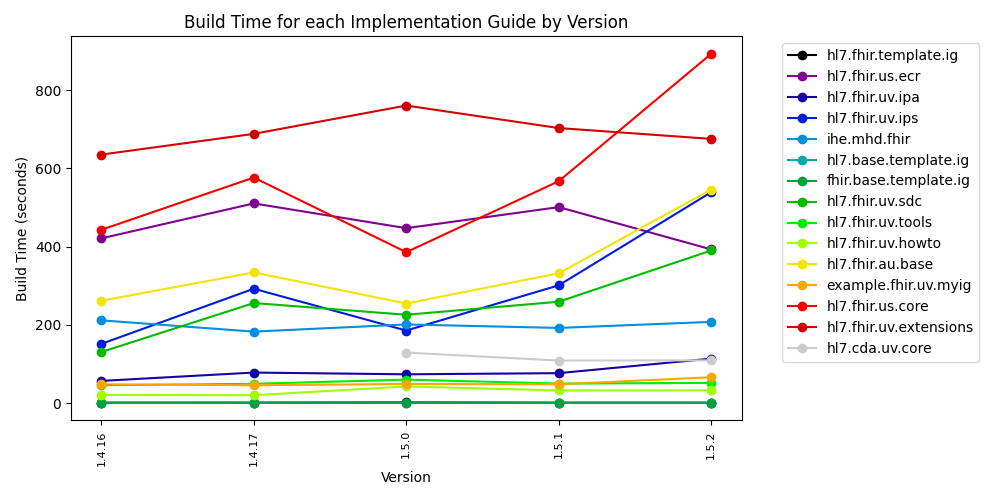
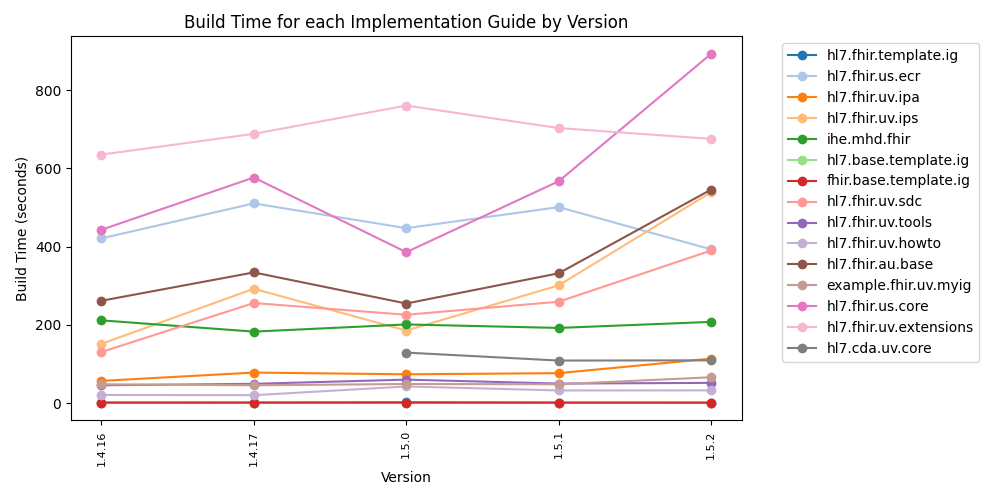
Add variant dynamic script with new color choices

diff --git a/scripts/plot-ig-builder-auto-dynamic-2.py b/scripts/plot-ig-builder-auto-dynamic-2.py
@@ -1,0 +1,166 @@
+# Description:
+# This script reads the output log of the IG Publisher release build process (either from the filesystem or the URL)
+# It parses the time info, converts the millisecond values to seconds (for visualization purposes),
+# and then plots the results for each tested IG.
+#
+# Usage:
+# Run it from the command line, providing the path or URL as an argument.
+# If no argument is passed, it defaults to the github test-statistics URL
+#
+# For example:
+#   python script.py path/to/yourfile.json
+# or
+#  python script.py https://raw.githubusercontent.com/HL7/fhir-ig-publisher/master/test-statistics.json
+#
+# Output:
+# The plotted graph is stored as a png in a subdirectory:
+# ../data/publisher-build-time-trends/{latest-version}.png
+
+import argparse
+import json
+import matplotlib.pyplot as plt
+import requests
+import sys
+import os
+import numpy as np
+
+
+# Function to parse and sort version numbers
+def parse_version(version):
+    # Split version into major, minor, and patch, and convert them to integers
+    try:
+        # Original code is now in the 'try' block, indented.
+        major, minor, patch = map(int, version.split('.'))
+        return major, minor, patch
+    except ValueError:  # Handling non-integer splits
+        return (0, 0, 0)  # Default value for non-version strings
+
+def load_json_data(source):
+    if source.startswith('http://') or source.startswith('https://'):
+        # Fetch the JSON data from a URL
+        response = requests.get(source)
+        response.raise_for_status()  # Raise an exception if the request failed
+        data = response.json()
+    else:
+        # Load the JSON data from a local file
+        with open(source, 'r') as file:
+            data = json.load(file)
+    return data
+
+def main(source):
+    data = load_json_data(source)
+
+    # Prepare data for visualization
+    build_times = {}  # Structure to hold the build times
+
+    # Extracting the keys, which represent version numbers
+    version_keys = list(data.keys())
+    version_keys = [key for key in version_keys if key[0].isdigit()]
+
+    # Sorting the version numbers
+    sorted_versions = sorted(version_keys, key=parse_version)
+
+    # The latest version is the last one in the sorted list
+    latest_version = sorted_versions[-1]
+
+    # Construct the filename using the version number
+    filename = f"{latest_version}.png"
+
+    # Process the JSON data
+    for version, guides in data.items():
+        if version == 'format-version':
+            continue  # Skip the 'format-version' entry
+
+        for guide, stats in guides.items():
+            if guide in ['sync-date', 'date']:
+                continue  # Skip non-guide entries
+
+            guide_name = guide
+            time = stats.get('time', 0) / 1000.0  # Convert milliseconds to seconds
+
+            if guide_name not in build_times:
+                build_times[guide_name] = {}
+            build_times[guide_name][version] = time
+
+    # Determine the number of unique guides to plot
+    num_guides = len(build_times)
+
+    # Define the colormaps
+    cmap1 = plt.get_cmap('tab20', 20)
+    cmap2 = plt.get_cmap('tab20b', 20)
+    cmap3 = plt.get_cmap('tab20c', 20)
+
+    # Initialize an empty list to store the colors
+    combined_colors = []
+
+    # Function to add colors to the list from a given colormap
+    def add_colors_from_cmap(cmap, num_colors, color_list):
+        for i in range(num_colors):
+            color_list.append(cmap(i))
+
+    # Add colors from each colormap to the combined list
+    add_colors_from_cmap(cmap1, 20, combined_colors)
+    add_colors_from_cmap(cmap2, 20, combined_colors)
+    #add_colors_from_cmap(cmap3, 20, combined_colors)
+
+    # Create the visualization
+    color_index = 0
+    for guide, times in build_times.items():
+        sorted_items = sorted(times.items())
+        versions = [item[0] for item in sorted_items]
+        timings = [item[1] for item in sorted_items]
+
+        # Use the next color in the color list
+        plt.plot(versions, timings, marker='o', label=guide, color=combined_colors[color_index % len(combined_colors)])
+        color_index += 1
+
+    plt.ylabel('Build Time (seconds)')  # Update label to reflect new units
+    plt.xlabel('Version')
+    plt.title('Build Time for each Implementation Guide by Version')
+    plt.legend(bbox_to_anchor=(1.05, 1), loc='upper left')
+    
+    # Set x-axis ticks to correspond to the actual versions present in the data
+    plt.xticks(ticks=np.arange(len(sorted_versions)), labels=sorted_versions, rotation=90, fontsize=8)
+
+    # Assume 'sorted_versions' is the list of version strings from the JSON data
+    base_width = 10  # Base width for up to 10 versions
+    additional_width_per_version = 0.2  # Additional width for each version above 10
+    max_reasonable_width = 30  # Maximum width to keep the plot reasonable
+    fixed_height = 5 # Fixed height in inches
+
+    # Calculate the dynamic width based on the number of versions
+    dynamic_width = calculate_dynamic_width(sorted_versions, base_width, additional_width_per_version, max_reasonable_width)
+
+    # Set the dynamic figure size
+    plt.gcf().set_size_inches(dynamic_width, fixed_height)
+    plt.tight_layout()
+
+    # Save the figure
+    plt.savefig(args.output)
+    # plt.show()
+
+    plt.close(args.output)
+
+def calculate_dynamic_width(versions, base_width, additional_width_per_version, max_width):
+    num_versions = len(versions)
+    if num_versions <= 10:
+        return base_width
+    else:
+        additional_width = (num_versions - 10) * additional_width_per_version
+        return min(base_width + additional_width, max_width)
+
+if __name__ == "__main__":
+    # Set up the command-line argument parser
+    parser = argparse.ArgumentParser(description='Visualize FHIR IG Publisher build times.')
+    parser.add_argument('--source', type=str, help='The path or URL to the JSON data source')
+    parser.add_argument('-o', '--output', type=str, help='Output filename with path', default='../data/publisher-build-time-trends/latest-version.png')  # You can change the default to any relevant path or filename.
+
+    # Parse the arguments
+    args = parser.parse_args()
+    args.source = args.source if args.source else 'https://raw.githubusercontent.com/HL7/fhir-ig-publisher/master/test-statistics.json'
+
+    try:
+        main(args.source)
+    except Exception as e:
+        print(f"Error: {str(e)}", file=sys.stderr)
+    args.source = args.source if (args.source is not None) else 'https://raw.githubusercontent.com/HL7/fhir-ig-publisher/master/test-statistics.json'
